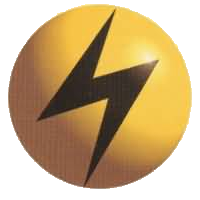
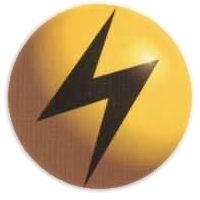
Energia casi acabada, nomes falta que puji i baixi

diff --git a/ItemObject.cpp b/ItemObject.cpp
@@ -43,16 +43,22 @@ void ItemObject::render(GameData &data)
 {
 	if (pickedUp) return;
 	Point3D pos = getPosition();
+
+	glEnable(GL_TEXTURE_2D);
 	glPushMatrix();
-		if (type == MEDIKIT) glColor3f(0.0f, 1.0f, 0.0f);
-		else if (type == ENERGY) glColor3f(0.0f, 0.0f, 1.0f);
+		glColor3f(1.0f, 1.0f, 1.0f);
+		glBindTexture(GL_TEXTURE_2D, data.getTextureID(GameData::ENERGY_TEXTURE_INDEX));
 		glTranslatef(pos.getX(), pos.getY() + 1.0f, pos.getZ());
+		glRotatef(90.0f, 1.0f, 0.0f, 0.0f);
 		GLUquadricObj *q = gluNewQuadric();
+		gluQuadricOrientation(q, GLU_OUTSIDE);
+		gluQuadricTexture(q, GL_TRUE);
 		gluSphere(q, 0.5, 16, 16);
 		gluDeleteQuadric(q);
 
 		glColor3f(1.0f,1.0f,1.0f);
 	glPopMatrix();
+	glDisable(GL_TEXTURE_2D);
 
 	if (type == ENERGY) particles.render(data);
 

diff --git a/GameData.cpp b/GameData.cpp
@@ -25,7 +25,8 @@ bool GameData::loadTextures()
 										   "button_help", "button_restart", "button_mainmenu", "cursor", "lantern", "manual", 
 										   "congrats", "button_next_level", "level_completed", "BallTexture", "hecatomb", 
 										   "landscape", "LifeFull", "LifeEmpty", "spacescape", "icescape", "Energy",
-										   "EnergyParticle1", "EnergyParticle2", "EnergyParticle3", "EnergyParticle4"};
+										   "EnergyParticle1", "EnergyParticle2", "EnergyParticle3", "EnergyParticle4",
+										   "EnergyTexture"};
 	for (unsigned int i = 0; i < textures.size(); i++) {
 		bool b = textures[i].load(filenames[i], TEXTURE_EXT);
 		if (!b) return false;

diff --git a/GameData.h b/GameData.h
@@ -12,7 +12,7 @@ class GameData
 {
 private:
 	/* Textures */
-	const static int NUM_TEXTURES = 27;		// TOCHANGE: modificar depenent del numero de textures carregades
+	const static int NUM_TEXTURES = 28;		// TOCHANGE: modificar depenent del numero de textures carregades
 	const static char* TEXTURE_EXT;
 	
 	/* TileSheets */
@@ -62,6 +62,7 @@ public:
 	const static int ENERGY_PARTICLE_2_INDEX = 24;
 	const static int ENERGY_PARTICLE_3_INDEX = 25;
 	const static int ENERGY_PARTICLE_4_INDEX = 26;
+	const static int ENERGY_TEXTURE_INDEX = 27;
 	
 
 	/* TileSheet indexes */		// TOCHANGE: afegir indexs de tots els tile sheets carregats
